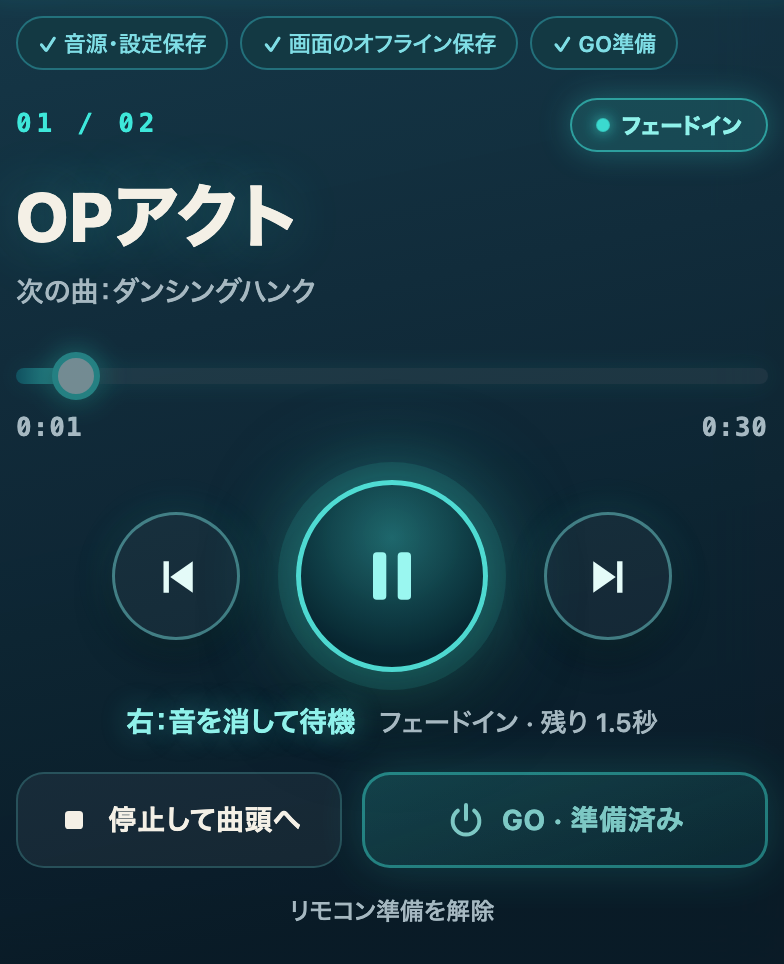
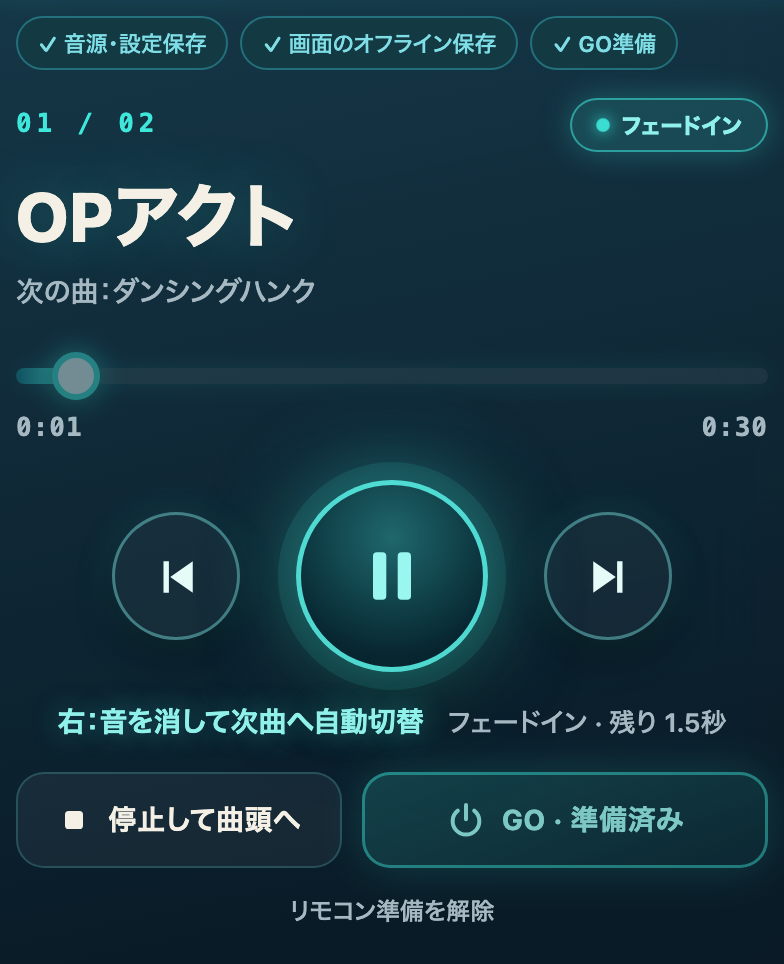
New songs default to cross (auto) handoff, release v120

Changed region(s): [[0.0612, 0.7158, 0.8571, 0.778], [0.8571, 0.7158, 0.9184, 0.778]]

diff --git a/releases/v120/index.html b/releases/v120/index.html
@@ -1,0 +1,27 @@
+<!doctype html><html lang="ja"><head><base href="../../"><meta charset="utf-8"><meta name="viewport" content="width=device-width,initial-scale=1,viewport-fit=cover"><meta name="theme-color" content="#0a1620"><meta name="apple-mobile-web-app-capable" content="yes"><meta name="apple-mobile-web-app-status-bar-style" content="black"><title>SHOW PLAYER</title><link rel="manifest" href="manifest.webmanifest"><link rel="stylesheet" href="player.css?v=120"><link rel="icon" href="icon.svg"><link rel="apple-touch-icon" href="icon-192.png"></head><body><main>
+<header class="top"><div class="brand"><svg class="logo" viewBox="0 0 48 48" aria-hidden="true"><defs><linearGradient id="lg" x1="0" y1="0" x2="1" y2="1"><stop offset="0" stop-color="#23a0ac"/><stop offset="1" stop-color="#115f69"/></linearGradient></defs><rect width="48" height="48" rx="13" fill="url(#lg)"/><path d="M19 14.5v19a1.2 1.2 0 0 0 1.8 1l15.5-9.5a1.2 1.2 0 0 0 0-2L20.800 13.500a1.200 1.200 0 0 0-1.800 1z" fill="#f3f0e8"/></svg><b>SHOW PLAYER</b></div><span class="pill version">1.1.0</span></header>
+<div class="app-grid"><aside class="library-panel"><div class="tabs"><button id="liveTab" class="selected"><svg viewBox="0 0 24 24" aria-hidden="true"><path d="M8 5.2v13.6a1 1 0 0 0 1.5.86l11-6.8a1 1 0 0 0 0-1.72l-11-6.8A1 1 0 0 0 8 5.2z"/></svg>本番画面</button><button id="editTab"><svg viewBox="0 0 24 24" aria-hidden="true"><path d="M4 7h9M19 7h1M4 17h1M11 17h9" fill="none" stroke="currentColor" stroke-width="2" stroke-linecap="round"/><circle cx="16" cy="7" r="2.6" fill="none" stroke="currentColor" stroke-width="2"/><circle cx="8" cy="17" r="2.6" fill="none" stroke="currentColor" stroke-width="2"/></svg>曲・フェード設定</button></div>
+<div class="side-list panel"><label class="panel-title" for="listPicker">セットリスト</label><select id="listPicker" class="list-picker"></select>
+<p id="listVersion" class="small muted"></p>
+<div class="library-actions"><button id="newList" class="secondary">＋ 新規</button><button id="duplicateList" class="secondary">複製</button><button id="deleteList" class="text-danger">削除</button></div>
+</div>
+</aside><div class="workspace"><div id="engineNote" class="banner" hidden></div><div id="offlineStatus" class="banner" role="status">オフライン準備を確認しています…</div>
+<div id="notice" class="notice" role="status">音源を追加して始めてください。</div>
+<section id="live" class="live-player"><div class="preparation" aria-label="本番前の準備"><span id="prepSaved">○ 音源・設定保存</span><span id="prepOffline">○ 画面のオフライン保存</span><span id="prepRemote">○ GO準備</span></div>
+<div class="title-row"><span id="number" class="eyebrow">00 / 00</span><span id="state" class="pill">音源なし</span></div>
+<h1 id="title">音源を選んでください</h1><p id="nextTitle" class="muted">次の曲：—</p>
+<input id="seek" class="seek-slider" type="range" min="0" max="0" step="0.01" value="0" aria-label="再生位置" disabled><p id="seekHint" class="small muted"></p><div class="progress" hidden><div id="progressBar"></div></div><div class="times"><span id="position">0:00</span><span id="duration">0:00</span></div>
+<div class="transport"><button id="previous" class="skip" aria-label="曲頭・前曲"><svg viewBox="0 0 24 24" aria-hidden="true"><path d="M6 5h2.4v14H6zM19 5v14L9 12z"/></svg></button><button id="central" class="central" aria-label="再生・一時停止">▶</button><button id="next" class="skip" aria-label="フェードアウト・次曲"><svg viewBox="0 0 24 24" aria-hidden="true"><path d="M15.6 5H18v14h-2.4zM5 5v14l10-7z"/></svg></button></div>
+<div class="hint"><b id="nextHint">右：再生を開始</b><p id="fadeStatus"></p></div>
+<div class="action-row"><button id="stop" class="secondary"><svg viewBox="0 0 24 24" aria-hidden="true"><rect x="6" y="6" width="12" height="12" rx="2.4"/></svg>停止して曲頭へ</button><button id="go" class="primary">GO · 音を出さずに準備</button></div>
+<div class="remote-row"><button id="releaseRemote" class="text-button">リモコン準備を解除</button><span id="remoteStatus" class="small muted"></span></div>
+<div id="selectionPanel" class="panel" hidden><p class="eyebrow">次に開始する曲</p><h2 id="selectedTitle"></h2><div class="selection-actions"><button id="activateSelected" class="primary">選んだ曲を再生 →</button><button id="cancelSelected" class="text-button">選択を解除</button></div></div>
+<div class="section-heading"><h2>セットリスト</h2><span id="saveStatus" class="small muted">未保存</span></div><button id="audioCheck" class="secondary">保存済み音源をチェック</button><div id="trackList"></div>
+</section>
+<section id="edit" hidden><div class="edit-title"><h2>音源と曲ごとの設定</h2><a class="manual-link" href="manual.html" target="_blank" rel="noopener">使い方マニュアル</a></div><div id="editorSaveStatus" class="banner" role="status">保存状態を確認しています…</div><label class="panel-title" for="listName">セットリスト名</label><input id="listName" class="name-input" type="text" placeholder="ショー名">
+<div id="audioDropZone" class="audio-drop-zone" role="region" aria-label="音源ファイルの取り込み"><p><b>音源をここへドロップ</b></p><label class="primary file-label">＋ 音源を追加<input id="files" type="file" accept="audio/*,.mp3,.wav,.m4a,.aac,.aif,.aiff" multiple hidden></label></div><p id="importStatus" class="small muted"></p><div class="reuse-row"><select id="reusePicker" aria-label="保存済み音源を選択"></select><button id="reuseAdd" class="secondary">保存済み音源を追加</button></div>
+<div class="order-panel"><h2>曲順</h2><div id="orderList"></div><p id="orderStatus" class="small muted" role="status"></p></div><div id="editList"></div>
+<div class="edit-save"><button id="save" class="primary">設定を保存する</button><button id="back" class="secondary">保存して本番画面へ戻る</button><button id="testUnsaved" class="text-button">保存せず本番画面でテスト</button></div></section>
+<footer>SHOW PLAYER · 1.1.0</footer>
+</div></div><audio id="audio" preload="auto" playsinline></audio><audio id="receiver" src="receiver-silence.wav" preload="auto" loop playsinline></audio>
+</main><script type="module" src="player.mjs?v=120"></script></body></html>

diff --git a/recover.html b/recover.html
@@ -1,4 +1,4 @@
-<!doctype html><html lang="ja"><head><meta charset="utf-8"><meta name="viewport" content="width=device-width,initial-scale=1"><title>SHOW PLAYERを開く</title><style>body{margin:0;background:#f3f0e8;color:#202e3a;font:16px/1.7 -apple-system,sans-serif}main{max-width:540px;margin:60px auto;padding:25px}h1{font-size:28px}p{color:#3d4b57}a,button{display:block;width:100%;box-sizing:border-box;background:#167b86;color:#ffffff;padding:16px;border:0;border-radius:12px;text-align:center;font:inherit;font-weight:bold;text-decoration:none;margin:18px 0}small{color:#5d6a74}</style></head><body><main><small>SHOW PLAYER · 1.1.0 · 更新用ページ</small><h1>SHOW PLAYERを開く</h1><p>通常の入口でエラーが出る場合は、こちらから開いてください。保存した音源や設定は削除しません。</p><a id="open" href="releases/v119/index.html">アプリを開く →</a><p id="status">初回はネット接続をオンにしてください。</p><small>まだ開けない場合は、このリンクをSafariでも試してください。通常のブラウザから開くだけで利用できます。</small></main><script>
+<!doctype html><html lang="ja"><head><meta charset="utf-8"><meta name="viewport" content="width=device-width,initial-scale=1"><title>SHOW PLAYERを開く</title><style>body{margin:0;background:#f3f0e8;color:#202e3a;font:16px/1.7 -apple-system,sans-serif}main{max-width:540px;margin:60px auto;padding:25px}h1{font-size:28px}p{color:#3d4b57}a,button{display:block;width:100%;box-sizing:border-box;background:#167b86;color:#ffffff;padding:16px;border:0;border-radius:12px;text-align:center;font:inherit;font-weight:bold;text-decoration:none;margin:18px 0}small{color:#5d6a74}</style></head><body><main><small>SHOW PLAYER · 1.1.0 · 更新用ページ</small><h1>SHOW PLAYERを開く</h1><p>通常の入口でエラーが出る場合は、こちらから開いてください。保存した音源や設定は削除しません。</p><a id="open" href="releases/v120/index.html">アプリを開く →</a><p id="status">初回はネット接続をオンにしてください。</p><small>まだ開けない場合は、このリンクをSafariでも試してください。通常のブラウザから開くだけで利用できます。</small></main><script>
 const link=document.getElementById('open'),status=document.getElementById('status');
 link.removeAttribute('href');link.style.opacity='.5';link.textContent='更新を確認中…';
 (async()=>{
@@ -14,6 +14,6 @@ link.removeAttribute('href');link.style.opacity='.5';link.textContent='更新を
   }
   status.textContent='更新しました。アプリで「WEB 1.1.0」と表示されることを確認してください。';
  }catch(e){status.textContent='更新を完了できませんでした。ネット接続を確認し、このページを再読み込みしてください。';}
- link.href='releases/v119/index.html';link.style.opacity='1';link.textContent='アプリを開く →';
+ link.href='releases/v120/index.html';link.style.opacity='1';link.textContent='アプリを開く →';
 })();
 </script></body></html>

diff --git a/app.html b/app.html
@@ -1,4 +1,4 @@
-<!doctype html><html lang="ja"><head><meta charset="utf-8"><meta name="viewport" content="width=device-width,initial-scale=1,viewport-fit=cover"><meta name="theme-color" content="#0a1620"><meta name="apple-mobile-web-app-capable" content="yes"><meta name="apple-mobile-web-app-status-bar-style" content="black"><title>SHOW PLAYER</title><link rel="manifest" href="manifest.webmanifest"><link rel="stylesheet" href="player.css?v=119"><link rel="icon" href="icon.svg"><link rel="apple-touch-icon" href="icon-192.png"></head><body><main>
+<!doctype html><html lang="ja"><head><meta charset="utf-8"><meta name="viewport" content="width=device-width,initial-scale=1,viewport-fit=cover"><meta name="theme-color" content="#0a1620"><meta name="apple-mobile-web-app-capable" content="yes"><meta name="apple-mobile-web-app-status-bar-style" content="black"><title>SHOW PLAYER</title><link rel="manifest" href="manifest.webmanifest"><link rel="stylesheet" href="player.css?v=120"><link rel="icon" href="icon.svg"><link rel="apple-touch-icon" href="icon-192.png"></head><body><main>
 <header class="top"><div class="brand"><svg class="logo" viewBox="0 0 48 48" aria-hidden="true"><defs><linearGradient id="lg" x1="0" y1="0" x2="1" y2="1"><stop offset="0" stop-color="#23a0ac"/><stop offset="1" stop-color="#115f69"/></linearGradient></defs><rect width="48" height="48" rx="13" fill="url(#lg)"/><path d="M19 14.5v19a1.2 1.2 0 0 0 1.8 1l15.5-9.5a1.2 1.2 0 0 0 0-2L20.800 13.500a1.200 1.200 0 0 0-1.800 1z" fill="#f3f0e8"/></svg><b>SHOW PLAYER</b></div><span class="pill version">1.1.0</span></header>
 <div class="app-grid"><aside class="library-panel"><div class="tabs"><button id="liveTab" class="selected"><svg viewBox="0 0 24 24" aria-hidden="true"><path d="M8 5.2v13.6a1 1 0 0 0 1.5.86l11-6.8a1 1 0 0 0 0-1.72l-11-6.8A1 1 0 0 0 8 5.2z"/></svg>本番画面</button><button id="editTab"><svg viewBox="0 0 24 24" aria-hidden="true"><path d="M4 7h9M19 7h1M4 17h1M11 17h9" fill="none" stroke="currentColor" stroke-width="2" stroke-linecap="round"/><circle cx="16" cy="7" r="2.6" fill="none" stroke="currentColor" stroke-width="2"/><circle cx="8" cy="17" r="2.6" fill="none" stroke="currentColor" stroke-width="2"/></svg>曲・フェード設定</button></div>
 <div class="side-list panel"><label class="panel-title" for="listPicker">セットリスト</label><select id="listPicker" class="list-picker"></select>
@@ -24,4 +24,4 @@
 <div class="edit-save"><button id="save" class="primary">設定を保存する</button><button id="back" class="secondary">保存して本番画面へ戻る</button><button id="testUnsaved" class="text-button">保存せず本番画面でテスト</button></div></section>
 <footer>SHOW PLAYER · 1.1.0</footer>
 </div></div><audio id="audio" preload="auto" playsinline></audio><audio id="receiver" src="receiver-silence.wav" preload="auto" loop playsinline></audio>
-</main><script type="module" src="player.mjs?v=119"></script></body></html>
+</main><script type="module" src="player.mjs?v=120"></script></body></html>

diff --git a/index.html b/index.html
@@ -1,4 +1,4 @@
-<!doctype html><html lang="ja"><head><meta charset="utf-8"><meta name="viewport" content="width=device-width,initial-scale=1,viewport-fit=cover"><meta name="theme-color" content="#0a1620"><meta name="apple-mobile-web-app-capable" content="yes"><meta name="apple-mobile-web-app-status-bar-style" content="black"><title>SHOW PLAYER</title><link rel="manifest" href="manifest.webmanifest"><link rel="stylesheet" href="player.css?v=119"><link rel="icon" href="icon.svg"><link rel="apple-touch-icon" href="icon-192.png"></head><body><main>
+<!doctype html><html lang="ja"><head><meta charset="utf-8"><meta name="viewport" content="width=device-width,initial-scale=1,viewport-fit=cover"><meta name="theme-color" content="#0a1620"><meta name="apple-mobile-web-app-capable" content="yes"><meta name="apple-mobile-web-app-status-bar-style" content="black"><title>SHOW PLAYER</title><link rel="manifest" href="manifest.webmanifest"><link rel="stylesheet" href="player.css?v=120"><link rel="icon" href="icon.svg"><link rel="apple-touch-icon" href="icon-192.png"></head><body><main>
 <header class="top"><div class="brand"><svg class="logo" viewBox="0 0 48 48" aria-hidden="true"><defs><linearGradient id="lg" x1="0" y1="0" x2="1" y2="1"><stop offset="0" stop-color="#23a0ac"/><stop offset="1" stop-color="#115f69"/></linearGradient></defs><rect width="48" height="48" rx="13" fill="url(#lg)"/><path d="M19 14.5v19a1.2 1.2 0 0 0 1.8 1l15.5-9.5a1.2 1.2 0 0 0 0-2L20.800 13.500a1.200 1.200 0 0 0-1.800 1z" fill="#f3f0e8"/></svg><b>SHOW PLAYER</b></div><span class="pill version">1.1.0</span></header>
 <div class="app-grid"><aside class="library-panel"><div class="tabs"><button id="liveTab" class="selected"><svg viewBox="0 0 24 24" aria-hidden="true"><path d="M8 5.2v13.6a1 1 0 0 0 1.5.86l11-6.8a1 1 0 0 0 0-1.72l-11-6.8A1 1 0 0 0 8 5.2z"/></svg>本番画面</button><button id="editTab"><svg viewBox="0 0 24 24" aria-hidden="true"><path d="M4 7h9M19 7h1M4 17h1M11 17h9" fill="none" stroke="currentColor" stroke-width="2" stroke-linecap="round"/><circle cx="16" cy="7" r="2.6" fill="none" stroke="currentColor" stroke-width="2"/><circle cx="8" cy="17" r="2.6" fill="none" stroke="currentColor" stroke-width="2"/></svg>曲・フェード設定</button></div>
 <div class="side-list panel"><label class="panel-title" for="listPicker">セットリスト</label><select id="listPicker" class="list-picker"></select>
@@ -24,4 +24,4 @@
 <div class="edit-save"><button id="save" class="primary">設定を保存する</button><button id="back" class="secondary">保存して本番画面へ戻る</button><button id="testUnsaved" class="text-button">保存せず本番画面でテスト</button></div></section>
 <footer>SHOW PLAYER · 1.1.0</footer>
 </div></div><audio id="audio" preload="auto" playsinline></audio><audio id="receiver" src="receiver-silence.wav" preload="auto" loop playsinline></audio>
-</main><script type="module" src="player.mjs?v=119"></script></body></html>
+</main><script type="module" src="player.mjs?v=120"></script></body></html>

diff --git a/manual.html b/manual.html
@@ -1,4 +1,4 @@
-<!doctype html><html lang="ja"><head><meta charset="utf-8"><meta name="viewport" content="width=device-width,initial-scale=1,viewport-fit=cover"><meta name="theme-color" content="#f3f0e8"><title>SHOW PLAYER 使い方マニュアル</title><link rel="icon" href="icon.svg"><link rel="stylesheet" href="manual.css?v=119"></head><body><main>
+<!doctype html><html lang="ja"><head><meta charset="utf-8"><meta name="viewport" content="width=device-width,initial-scale=1,viewport-fit=cover"><meta name="theme-color" content="#f3f0e8"><title>SHOW PLAYER 使い方マニュアル</title><link rel="icon" href="icon.svg"><link rel="stylesheet" href="manual.css?v=120"></head><body><main>
 <div class="bar"><span class="brand"><svg class="logo" viewBox="0 0 48 48" aria-hidden="true"><defs><linearGradient id="lg" x1="0" y1="0" x2="1" y2="1"><stop offset="0" stop-color="#23a0ac"/><stop offset="1" stop-color="#115f69"/></linearGradient></defs><rect width="48" height="48" rx="13" fill="url(#lg)"/><path d="M19 14.5v19a1.2 1.2 0 0 0 1.8 1l15.5-9.500a1.2 1.2 0 0 0 0-2L20.800 13.500a1.200 1.200 0 0 0-1.800 1z" fill="#f3f0e8"/></svg><b>SHOW PLAYER</b></span><a class="back" href="app.html">← アプリに戻る</a></div>
 <h1>使い方マニュアル</h1>
 <p class="lead">ショーの音楽を、リモコン1つで流すためのアプリです。画面には操作に必要なものだけを置き、説明はここにまとめています。画像は実際の画面です（曲名やフェードの数字はサンプル）。</p>
@@ -69,7 +69,7 @@
 <ul>
 <li><b>開始方法</b>は、その曲が始まるとき。<b>終了方法</b>は、その曲を右で終わらせるときの設定です。</li>
 <li>「フェード」にすると秒数の欄が出ます。スライダーは0.1秒刻みで、10秒より長いときは数字を直接入力します。フェードを選んだ曲は、秒数を入力しないと保存できません。</li>
-<li>「カット」に戻しても、入れた秒数は残ります。初期設定は、どちらもカットです。</li>
+<li>「カット」に戻しても、入れた秒数は残ります。初期設定は、開始・終了ともカット、曲送りはクロスです（新しく取り込んだ曲）。すでに保存してある曲の設定は変わりません。</li>
 </ul>
 <h3>曲送り（手動／クロス）</h3>
 <ul><li><b>手動</b>：右1回で音を消して待機、もう1回で次の曲を開始。</li>

diff --git a/sw.js b/sw.js
@@ -1,6 +1,6 @@
 const BASE=new URL('./',self.location).pathname;
-const CACHE='show-player-offline-v119';
-const FILES=['./releases/v119/index.html','./','./index.html','./app.html','./player.css?v=119','./player.mjs?v=119','./audio-mode.mjs?v=119','./buffer-engine.mjs?v=119','./transport.mjs?v=119','./storage.mjs?v=119','./repository.mjs?v=119','./transfer.mjs?v=119','./manifest.webmanifest','./manual.html','./manual.css?v=119','./manual/status.png','./manual/player.png','./manual/card1.png','./manual/card2.png','./manual/setlist.png','./manual/list.png','./manual/import.png','./manual/order.png','./manual/save.png','./icon.svg','./icon-192.png','./icon-512.png','./receiver-silence.wav','./demo-a.wav','./demo-b.wav'];
+const CACHE='show-player-offline-v120';
+const FILES=['./releases/v120/index.html','./','./index.html','./app.html','./player.css?v=120','./player.mjs?v=120','./audio-mode.mjs?v=120','./buffer-engine.mjs?v=120','./transport.mjs?v=120','./storage.mjs?v=120','./repository.mjs?v=120','./transfer.mjs?v=120','./manifest.webmanifest','./manual.html','./manual.css?v=120','./manual/status.png','./manual/player.png','./manual/card1.png','./manual/card2.png','./manual/setlist.png','./manual/list.png','./manual/import.png','./manual/order.png','./manual/save.png','./icon.svg','./icon-192.png','./icon-512.png','./receiver-silence.wav','./demo-a.wav','./demo-b.wav'];
 // Safari rejects redirected cached responses for navigation. Reconstruct every
 // response served by this worker, including caches created by older versions.
 function cleanResponse(response){if(!response||response.status===0)throw Error('Unreadable response');const headers=new Headers(response.headers);headers.delete('Content-Encoding');headers.delete('Content-Length');return new Response(response.clone().body,{status:response.status,statusText:response.statusText,headers});}
